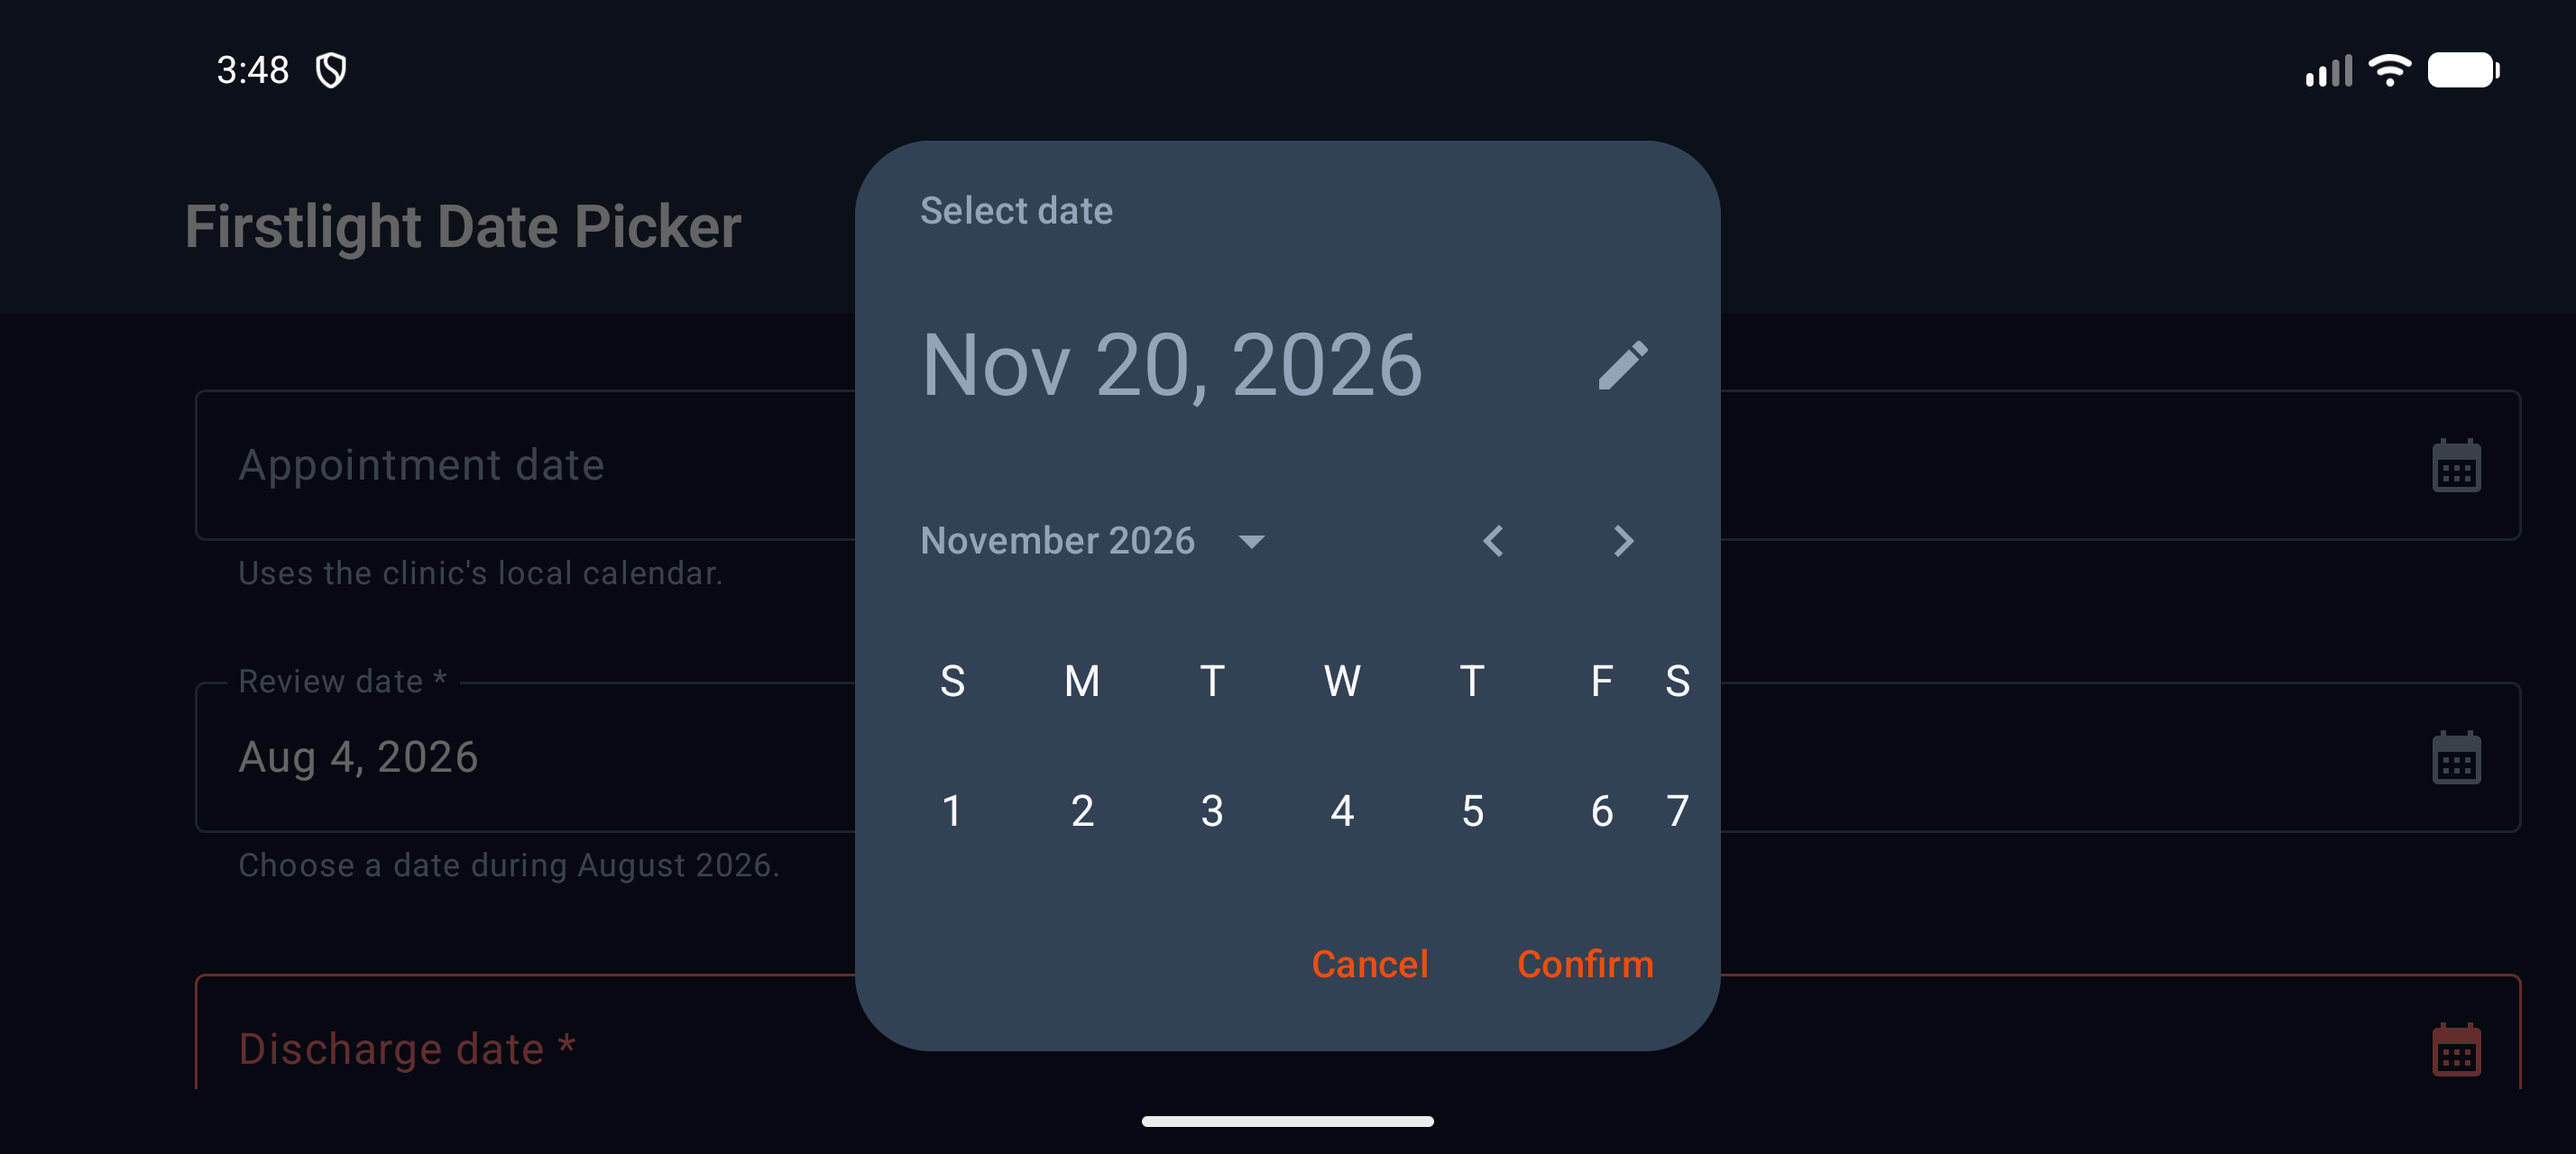
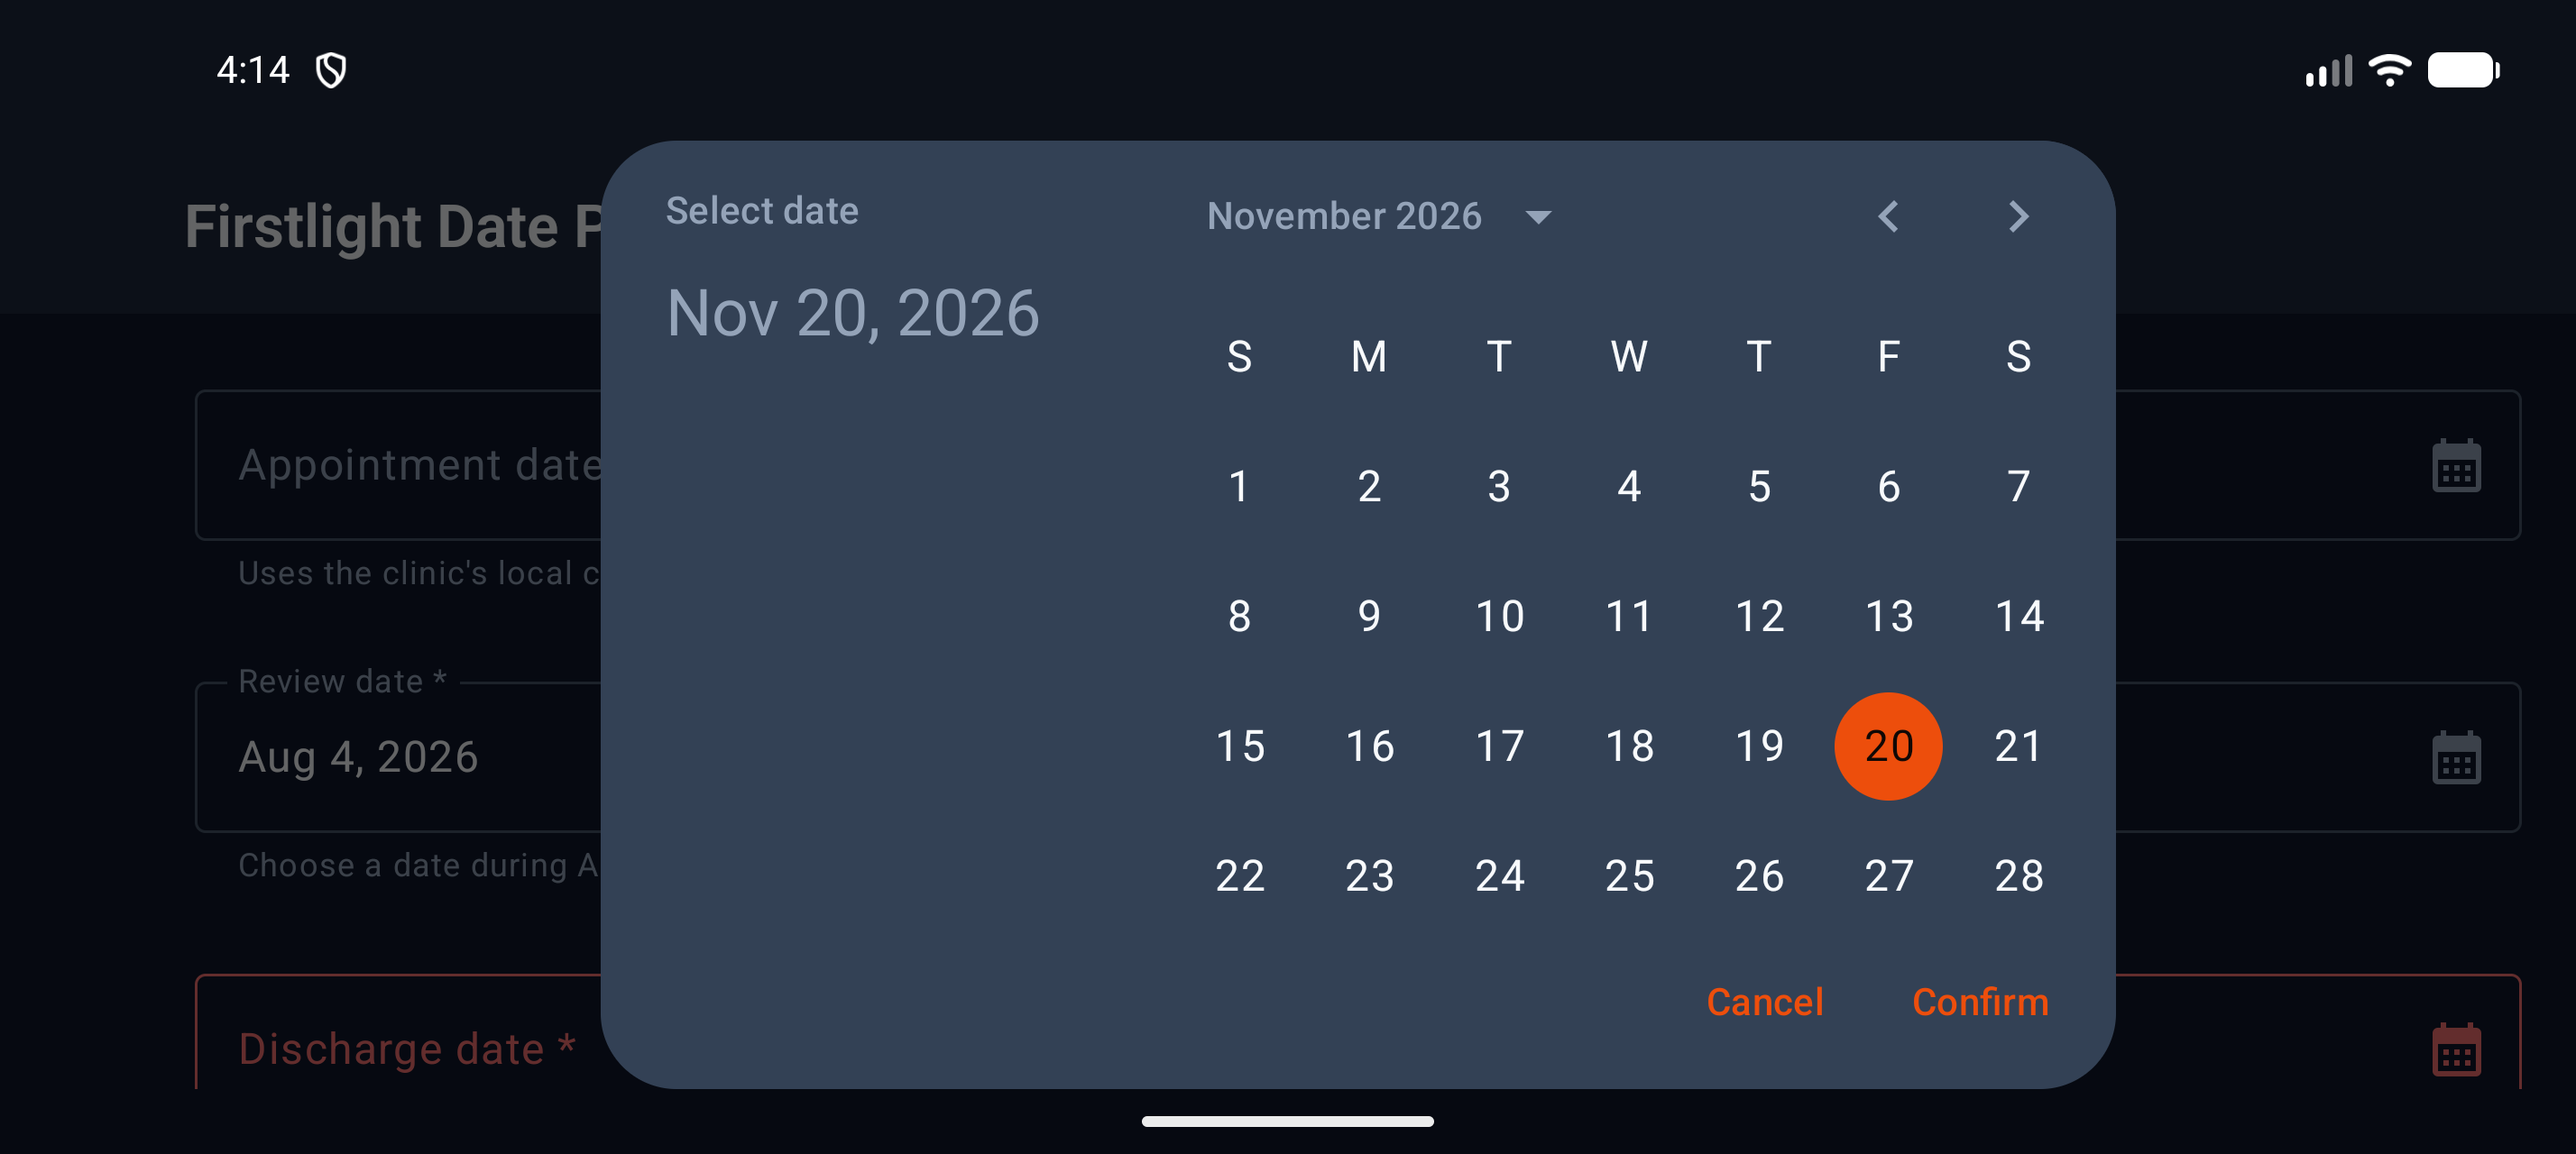
Give the Android landscape picker dialog its full 560 dp width
On a phone in landscape the platform capped the dialog window at about
320 dp, which squashed the header-beside-calendar layout and cut the
clock dial in half. That layout now skips the platform default width and
uses BasicAlertDialog's own 560 dp limit. Retakes the Android landscape
Date Picker screenshots.

Amp-Thread-ID: https://ampcode.com/threads/T-01a1f668-b9f0-723e-a175-0a0a15048cc3

diff --git a/resources/android/FirstlightPickerDialog.kt b/resources/android/FirstlightPickerDialog.kt
@@ -73,10 +73,15 @@ internal fun FirstlightPickerDialog(
 
     // A short screen can't show the whole calendar, and keyboard entry opens the keyboard, which
     // would cover the actions. The dialog draws edge to edge and pads for the system bars and the
-    // keyboard, so its content shrinks and scrolls.
+    // keyboard, so its content shrinks and scrolls. The platform caps a dialog window at about
+    // 320 dp on a phone in landscape, too narrow for the header beside the calendar, so that
+    // layout uses the whole window and BasicAlertDialog's own 560 dp limit instead.
     BasicAlertDialog(
         onDismissRequest = onDismissRequest,
-        properties = DialogProperties(decorFitsSystemWindows = false),
+        properties = DialogProperties(
+            decorFitsSystemWindows = false,
+            usePlatformDefaultWidth = !pickerUsesSideBySideLayout(),
+        ),
         modifier = Modifier.safeDrawingPadding(),
     ) {
         Surface(
